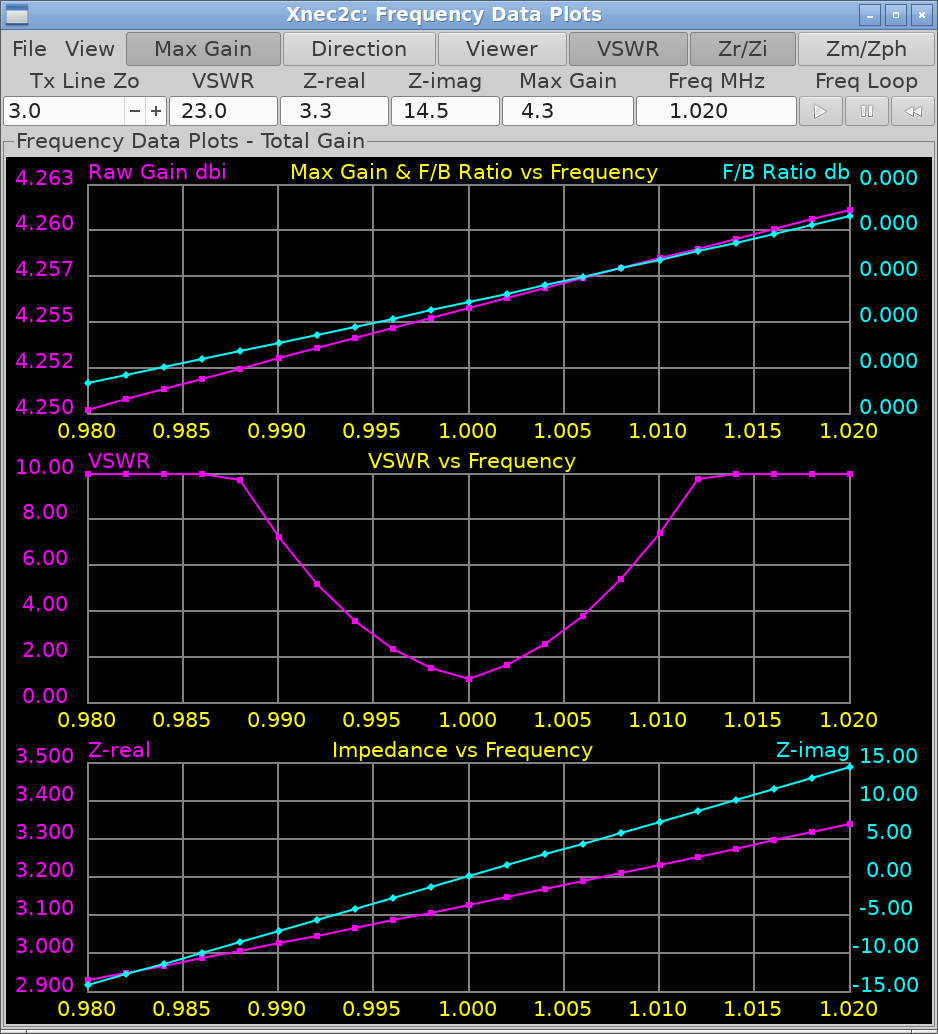
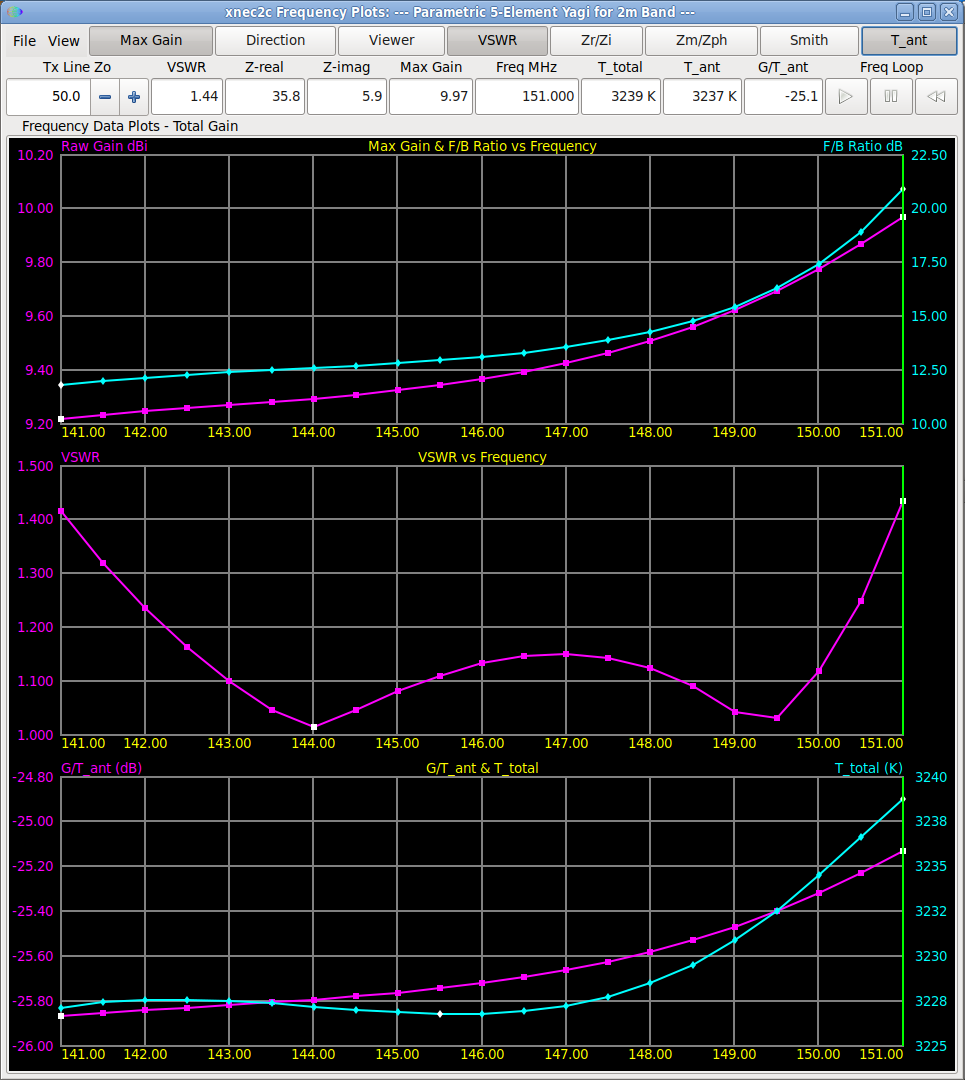
docs: document noise temperature visualization and G/T analysis
The noise temperature subsystem introduced across prior commits had no
user documentation. Readers had no guidance on the noise environment
models, elevation offset control, the noise coloring modes in the
radiation pattern window, or the T_ant/G/T_ant frequency plot and
readouts.

- add Noise Temperature Visualization section explaining the two new
  gain-scaling modes and the color legend behavior
- add Noise Environment Models section with table of all eight models
  (VE7BQH Rural/Residential/City, G4CQM Baseline, ITU-R Business/
  Residential/Rural/Quiet Rural) and their provenance
- add Elevation Offset section describing the T Elev spin button and
  its effect on sky/earth hemisphere boundary
- add Understanding Antenna Temperature section covering T_ant, T_loss,
  T_total, G/T_ant, and the Y-factor interpretation
- add T_ant row to the Frequency Plots data-selection table
- add Antenna Temperature and G/T Readouts section for the frequency
  window status bar fields and the T_ant toggle button
- add optimizer scoring entries for Ant Temp, Ant Temp Total, and
  G/T_ant in the optimizer parameter table
- update freq_plots.png screenshot to reflect new T_ant plot
- add yagi-antenna-noise-pattern.png illustrating log-scale noise
  coloring on a 5-element Yagi
- add DE and DG country entries to the locale flag map

Changed region(s): [[0.0, 0.0, 1.0, 1.0]]

diff --git a/doc/xnec2c.html b/doc/xnec2c.html
@@ -30,7 +30,9 @@ window.addEventListener('load', function() {
   const countryInfo = {
     '5B': { flag: '🇨🇾', name: 'Cyprus' },
     'DC': { flag: '🇩🇪', name: 'Germany' },
+    'DE': { flag: '🇩🇪', name: 'Germany' },
     'DF': { flag: '🇩🇪', name: 'Germany' },
+    'DG': { flag: '🇩🇪', name: 'Germany' },
     'DL': { flag: '🇩🇪', name: 'Germany' },
     'EI': { flag: '🇮🇪', name: 'Ireland' },
     'A': { flag: '🇺🇸', name: 'United States' },
@@ -1235,6 +1237,20 @@ buttons to select fixed viewing angles of the structure or the
 radiation pattern, as well as spin buttons to input specific
 viewing angles.
 
+<h3 id="NoiseTemp">Noise Temperature Visualization</h3>
+<p>
+The <a href="#RadiationWindow">Radiation Pattern window</a> can render
+each solid-angle cell of the pattern by its gain-weighted brightness
+temperature (K/sr) under a selectable RF noise environment, showing
+where noise enters the antenna. Eight
+<a href="#NoiseEnvModels">environment models</a> provide
+T<sub>sky</sub> and T<sub>earth</sub> values spanning quiet rural to
+dense urban conditions. An
+<a href="#ElevationOffset">elevation control</a> shifts the sky/earth
+horizon boundary. The <a href="#FrequencyWindow">Frequency Plots
+window</a> displays T<sub>ant</sub>, T<sub>total</sub>, and
+G/T<sub>ant</sub> across the operating band.</p>
+
 <h3 id="Color">Color Coding</h3>
 <p>
 Xnec2c uses color coding to visualize the Current or Charge
@@ -1587,6 +1603,206 @@ stem of the filename is given, xnec2c will automatically add the
 &lt;<var>filename</var>&gt; with lines</code> command, although the plot can be
 enhanced with some of the style etc commands available in
 gnuplot.</p>
+<h4 id="NoiseTempDisplay">Noise Temperature Display</h4>
+<p>
+Two additional entries in the
+<span class="menu-path">View &rarr; Gain Scaling</span> submenu render the
+radiation pattern by noise temperature rather than gain magnitude.
+<span class="ui-button">Noise Temperature</span> colors each
+solid-angle cell by its gain-weighted brightness temperature in
+K/sr (Kelvin per steradian), using a linear scale. Cells receiving
+high brightness temperature from the environment appear at the red
+end of the color bar; those contributing little noise appear at the
+magenta end. <span class="ui-button">Noise Temp (log scale)</span>
+applies logarithmic compression, revealing low-level sidelobe
+contributions that the linear mapping compresses into a narrow color
+band.</p>
+
+<p>
+The color legend adapts to show the K/sr range of the current
+pattern rather than dB gain values. Relative dB marks along the
+legend are suppressed, since they have no meaning in temperature
+units. The gain readout below the color bar likewise displays K/sr.
+To verify correct operation, observe that the highest-temperature
+cell corresponds to the direction facing the warmer hemisphere
+(earth, when elevation is 0&deg; or positive) with the strongest
+pattern gain in that direction.</p>
+
+<p>
+Noise temperature computation requires gain data over the full
+sphere. Xnec2c displays a one-time warning when it detects
+conditions that compromise the result. Two such conditions exist:
+a ground-plane model provides gain data for only the upper
+hemisphere, leaving the lower hemisphere&mdash;where earth noise
+would normally dominate&mdash;without computed values; and a beam
+maximum that lies significantly off the model's forward axis can
+distort the G/T<sub>ant</sub> figure of merit, since the reference
+gain no longer represents the intended receive direction.</p>
+
+<figure>
+<img src="images/yagi-antenna-noise-pattern.png" alt="Radiation pattern of a 5-element Yagi at 151 MHz in Noise Temp (log scale) mode at 30° elevation" loading="lazy">
+<figcaption>A parametric 5-element Yagi for 2m viewed from the side (Y axis)
+in Noise Temp (log scale) mode at 30&deg; elevation tilt.
+T<sub>total</sub> reads 1214&nbsp;K. The main beam (forward along X)
+appears blue, capturing cold sky; rear and downward lobes glow
+green through red where they intercept the warm earth hemisphere.
+The color legend spans 0&ndash;2294&nbsp;K/sr. The Noise readout
+shows &minus;999.99&nbsp;K/sr because the viewer direction is
+perpendicular to the boom, where pattern gain is near zero.</figcaption>
+</figure>
+
+<h4 id="NoiseEnvModels">Noise Environment Models</h4>
+<p>
+The <span class="menu-path">View &rarr; Noise Environment</span> submenu
+selects which brightness temperatures are assigned to the sky and
+earth hemispheres. Eight models are available, drawn from three
+independent sources. Each defines T<sub>sky</sub> and
+T<sub>earth</sub> as functions of frequency.</p>
+
+<table>
+<thead>
+<tr>
+<th>Model</th>
+<th>Source</th>
+<th>Character</th>
+</tr>
+</thead>
+<tbody>
+<tr>
+<td>VE7BQH Rural</td>
+<td>VE7BQH antenna comparison tables</td>
+<td>Low man-made noise</td>
+</tr>
+<tr>
+<td>VE7BQH Residential</td>
+<td>VE7BQH antenna comparison tables</td>
+<td>Moderate man-made noise (default)</td>
+</tr>
+<tr>
+<td>VE7BQH City</td>
+<td>VE7BQH antenna comparison tables</td>
+<td>High man-made noise</td>
+</tr>
+<tr>
+<td>G4CQM Baseline</td>
+<td>G4CQM reference data</td>
+<td>Interpolated baseline independent of other category schemes</td>
+</tr>
+<tr>
+<td>ITU-R Business</td>
+<td>ITU-R P.372</td>
+<td>High urban and industrial noise</td>
+</tr>
+<tr>
+<td>ITU-R Residential</td>
+<td>ITU-R P.372</td>
+<td>Suburban residential</td>
+</tr>
+<tr>
+<td>ITU-R Rural</td>
+<td>ITU-R P.372</td>
+<td>Low-density rural</td>
+</tr>
+<tr>
+<td>ITU-R Quiet Rural</td>
+<td>ITU-R P.372</td>
+<td>Minimal man-made noise</td>
+</tr>
+</tbody>
+</table>
+
+<p>
+The VE7BQH models use tabulated T<sub>sky</sub> and T<sub>earth</sub>
+values at discrete amateur band frequencies, interpolated
+logarithmically between points. These are the standard temperatures
+used in the widely-referenced VE7BQH antenna comparison tables,
+making VE7BQH Residential the natural default when comparing results
+against published data. For worst-case urban or contest scenarios,
+VE7BQH City or ITU-R Business represents the noisiest conditions.
+For remote EME or radio astronomy sites, ITU-R Quiet Rural represents
+the lowest terrestrial noise floor.</p>
+
+<p>
+The ITU-R models derive T<sub>earth</sub> from the man-made noise
+coefficients in ITU-R Recommendation P.372. At higher VHF frequencies
+in quieter environments, this formula can yield values below the
+physical ambient temperature; xnec2c clamps T<sub>earth</sub> to a
+290&nbsp;K floor in these cases, since no terrestrial environment can
+be colder than its physical surroundings. To observe the clamping,
+select ITU-R Quiet Rural and increase frequency above 200&nbsp;MHz
+while watching the reported T<sub>earth</sub>.</p>
+
+<p>
+The selected environment is persisted in the configuration file and
+restored on next startup.</p>
+
+<h4 id="ElevationOffset">Elevation Offset</h4>
+<p>
+The <span class="ui-button">T Elev&deg;</span> spin button in the
+toolbar shifts the boundary between sky and earth hemispheres. The
+range is &minus;90&deg; to +90&deg;.
+At 0&deg; (the default) the horizon lies perpendicular to the zenith;
+positive values tilt it upward, modeling an antenna pointed above the
+horizon where more of the pattern sees cold sky; negative values tilt
+downward, increasing earth hemisphere coverage.</p>
+
+<p>
+This offset affects both the 3D noise temperature coloring and the
+scalar T<sub>ant</sub> computation. To confirm the relationship, set
+elevation to +90&deg; and observe that T<sub>ant</sub> approaches
+T<sub>sky</sub> (the entire sphere becomes sky hemisphere). At
+&minus;90&deg; it approaches T<sub>earth</sub>. At exactly 0&deg;,
+an isotropic antenna always produces
+T<sub>ant</sub>&nbsp;=&nbsp;(T<sub>sky</sub>&nbsp;+&nbsp;T<sub>earth</sub>)&nbsp;/&nbsp;2,
+since the two hemispheres subtend equal solid angle and every cell
+has identical gain.</p>
+
+<p>
+The elevation value is persisted in the configuration file.</p>
+
+<h4 id="NoiseTempConcepts">Understanding Antenna Temperature</h4>
+<p>
+Every physical object emits radio-frequency energy in proportion to
+its temperature. An antenna captures this emission through its
+radiation pattern; the total captured amount, expressed in Kelvin, is
+the antenna temperature&mdash;equivalent to the temperature of a
+resistor producing identical noise power at the receiver input.
+Xnec2c models the environment as two hemispheres (sky above the
+horizon, earth below), each carrying a brightness temperature set by
+the selected <a href="#NoiseEnvModels">environment model</a>. The
+<code class="nec-card">RP</code> command's angular step size
+partitions the pattern into solid-angle cells; each cell's gain
+determines how much brightness temperature it contributes, and
+summing over the full sphere yields the pattern temperature
+T<sub>ant</sub>. Ohmic losses in the elements generate Nyquist noise
+that adds a loss temperature T<sub>loss</sub>, giving
+T<sub>total</sub>&nbsp;=&nbsp;T<sub>ant</sub>&nbsp;+&nbsp;T<sub>loss</sub>.
+T<sub>ant</sub> quantifies geometric noise rejection (sidelobe and
+backlobe suppression); T<sub>loss</sub> is determined by conductor
+material and cross-section. The figure of merit
+G/T<sub>ant</sub>&mdash;forward gain divided by antenna temperature,
+in dB/K&mdash;captures both.</p>
+
+<p>
+The Y-factor
+(T<sub>earth</sub>&nbsp;/&nbsp;T<sub>sky</sub>) determines how much
+leverage pattern optimization provides. Strong contrast between hot
+earth and cold sky means pattern shaping has a pronounced effect on
+captured noise. The environment models display T<sub>sky</sub> and
+T<sub>earth</sub> at the operating frequency; the ratio between them
+indicates how much G/T<sub>ant</sub> improvement is available through
+pattern shaping at that frequency.</p>
+
+<p>
+For further reading on antenna temperature evaluation, noise
+environment models, and G/T system analysis for VHF/UHF weak-signal
+design, see the
+<a target="_blank" rel="noopener noreferrer"
+href="https://dg7ybn.de/Ant_Temp/Ant_Temp.htm">Antenna Temperature
+and G/T</a> reference by
+<span class="contact" data-callsign="DG7YBN">Hartmut
+Kl&uuml;ver</span>, DG7YBN.</p>
+
 <h3 id="FrequencyWindow">Frequency Data Plots window</h3>
 <figure>
 <img src="images/freq_plots.png" class="float-left" alt="Frequency plots window showing VSWR and gain graphs" loading="lazy">
@@ -1664,6 +1880,11 @@ to select data to be plotted against frequency. These are:</p>
 <td><kbd class="shortcut">p</kbd></td>
 <td>The scalar magnitude and phase of the input impedance.</td>
 </tr>
+<tr>
+<td><span class="ui-button">T_ant</span></td>
+<td></td>
+<td>G/T<sub>ant</sub> (right axis) with T<sub>ant</sub> or T<sub>total</sub> as the secondary curve, selectable via <span class="menu-path">View &rarr; Show T_ant instead of T_total</span>. Requires a <a href="#NoiseEnvModels">noise environment</a> and radiation pattern data.</td>
+</tr>
 </tbody>
 </table>
 <p>The <span class="menu-path">View → Net Gain</span> menu item changes the second plotted
@@ -1676,8 +1897,12 @@ to Start, Pause or Reset the loop. As the loop progresses, more
 data will be presented in the graphs and in the text entry widgets
 above the graph drawing area. These widgets display the current
 frequency in&nbsp;MHz, the maximum gain in the radiation pattern for
-that frequency, the VSWR for the Z<sub>0</sub> value in the spin button above
-and the real and imaginary parts of the input impedance.</p>
+that frequency, the VSWR for the Z<sub>0</sub> value in the spin
+button above, the real and imaginary parts of the input impedance,
+and&mdash;when noise temperature data is available&mdash;the
+T<sub>total</sub>, T<sub>ant</sub>, and G/T<sub>ant</sub> readouts
+described in the <a href="#AntTempReadouts">Antenna Temperature and
+G/T Readouts</a> section below.</p>
 <p>The <span class="menu-path">File → Save</span> menu <kbd class="shortcut">s</kbd> and <span class="menu-path">File → Save As</span> menu <kbd class="shortcut">Ctrl+s</kbd> items can be used to save the graphs in the drawing
 area as PNG image files, with a default file name or one of the
 user's choice respectively. The <span class="menu-path">View → Polarization</span>
@@ -1697,6 +1922,46 @@ some of the style etc commands available in gnuplot. In this example
 it plots columns 2 and 3 (zreal and zimag) against column 1 (MHz).
 Change 2:3 to 2:16 to see all columns, though 16 plots will make the
 graph very busy.</p>
+
+<h4 id="AntTempReadouts">Antenna Temperature and G/T Readouts</h4>
+<p>
+Three additional readout fields appear in the status bar when noise
+temperature data is available.
+<span class="ui-button">T_total</span> shows the total antenna
+temperature (pattern plus loss) in Kelvin.
+<span class="ui-button">T_ant</span> shows the pattern temperature
+alone.
+<span class="ui-button">G/T_ant</span> shows the receive figure of
+merit in dB/K. All three update as the frequency changes, whether by
+advancing the frequency loop or by clicking in the plot area.</p>
+
+<p>
+The <span class="ui-button">T_ant</span> toggle button in the toolbar
+enables plotting of G/T<sub>ant</sub> against frequency on the graph,
+using the right-axis scale. The
+<span class="menu-path">View &rarr; Show T_ant instead of T_total</span>
+menu item switches the secondary curve between T<sub>ant</sub> and
+T<sub>total</sub>, allowing direct comparison of pattern temperature
+versus total temperature across the operating band. Pattern
+temperature isolates the geometric contribution&mdash;how well the
+design rejects environmental noise through sidelobe suppression. Total
+temperature adds the ohmic loss component, determined by element
+material and construction quality.</p>
+
+<p>
+G/T<sub>ant</sub> versus frequency reveals the figure of merit across
+the band. When using VE7BQH Residential as the environment, values at
+the design frequency can be compared directly against published
+VE7BQH table entries. A rising T<sub>ant</sub> toward band edges
+indicates growing sidelobe levels, since more of the pattern
+intercepts the warmer earth hemisphere. The gap between
+T<sub>total</sub> and T<sub>ant</sub> quantifies the ohmic loss
+contribution, which at 432&nbsp;MHz and above can become significant
+relative to the pattern temperature depending on element material and
+cross-section.</p>
+
+<p>
+Both display settings are persisted in the configuration file.</p>
 
 <h4>Touchstone Files</h4>
 <p>
@@ -2359,6 +2624,9 @@ across the full sweep.</dd>
 <tr><td>Gain Dev −Y</td><td>Angular deviation of peak gain from −Y axis (°)</td><td>min score</td><td>1.0</td></tr>
 <tr><td>Gain Dev +Z</td><td>Angular deviation of peak gain from +Z (zenith) (°)</td><td>min score</td><td>1.0</td></tr>
 <tr><td>Gain Dev −Z</td><td>Angular deviation of peak gain from −Z (nadir) (°)</td><td>min score</td><td>1.0</td></tr>
+<tr><td>Ant Temp</td><td>Antenna noise temperature from sky/earth brightness (K)</td><td>min score</td><td>1000.0</td></tr>
+<tr><td>Ant Temp Total</td><td>Total antenna noise temperature including ohmic loss (K)</td><td>min score</td><td>1000.0</td></tr>
+<tr><td>G/T_ant</td><td>Gain-to-antenna-temperature ratio (dB), excludes loss</td><td>max score</td><td>0.0</td></tr>
 </tbody>
 </table>
 